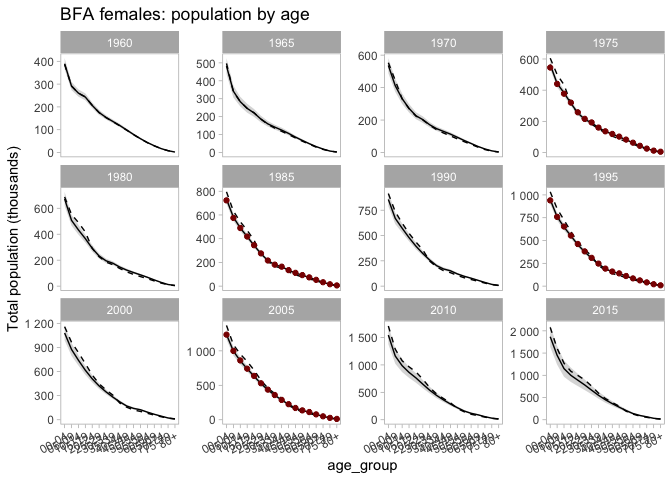
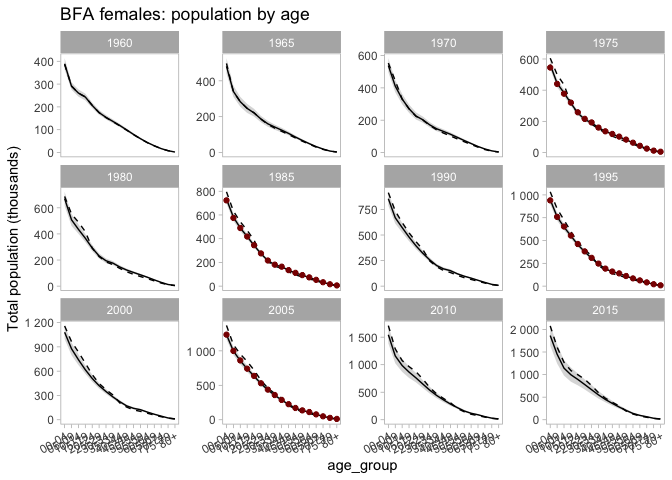
adjust README figure size in html

diff --git a/README.md b/README.md
@@ -290,7 +290,7 @@ ggplot(totalpop, aes(year, mean, ymin = lower, ymax = upper)) +
 #> Warning: Removed 8 rows containing missing values (geom_point).
 ```
 
-<img src="man/figures/README-unnamed-chunk-2-1.png" width="100%" style="display: block; margin: auto;" />
+<img src="man/figures/README-unnamed-chunk-2-1.png" width="60%" style="display: block; margin: auto;" />
 
 ``` r
 ggplot(agepop, aes(age_group, mean, ymin = lower, ymax = upper, group = 1)) +
@@ -308,7 +308,7 @@ ggplot(agepop, aes(age_group, mean, ymin = lower, ymax = upper, group = 1)) +
 #> Warning: Removed 136 rows containing missing values (geom_point).
 ```
 
-<img src="man/figures/README-unnamed-chunk-3-1.png" width="100%" style="display: block; margin: auto;" />
+<img src="man/figures/README-unnamed-chunk-3-1.png" width="80%" style="display: block; margin: auto;" />
 
 ## Development notes
 
